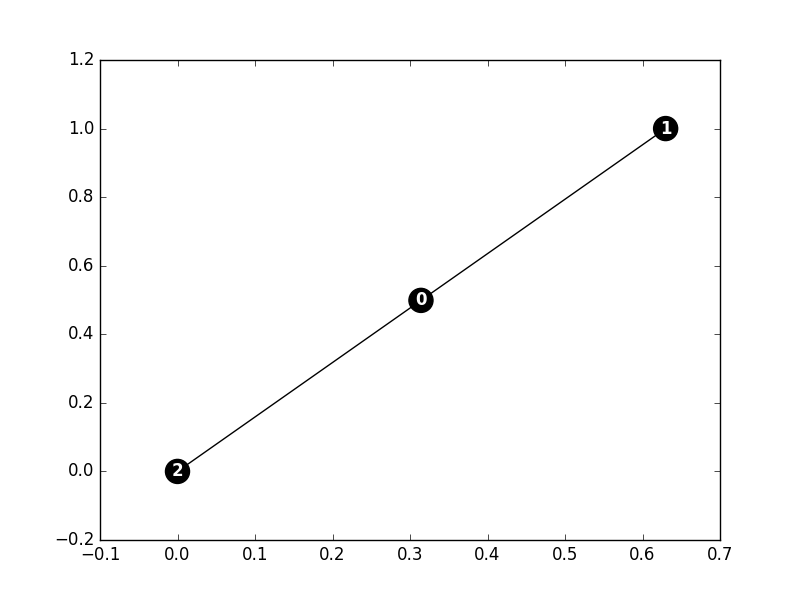
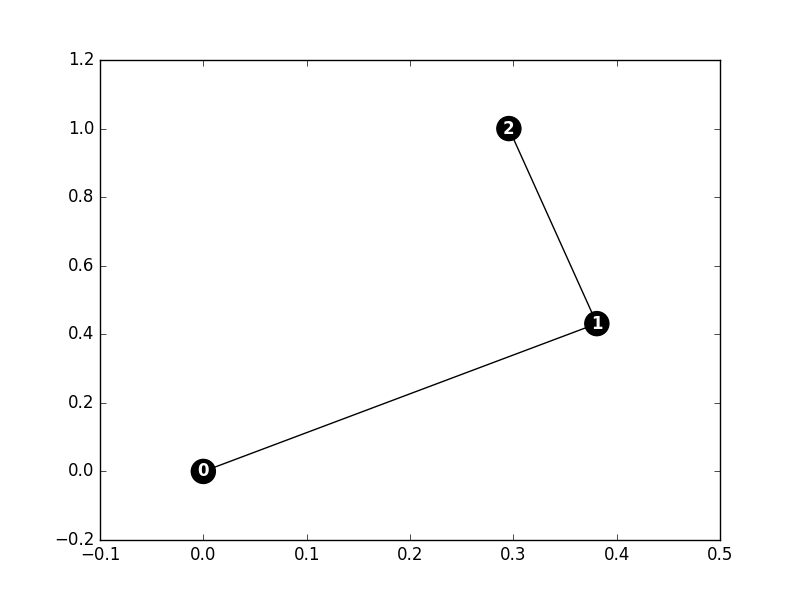
dungeons, mostly

diff --git a/dungeons/dungeon.py b/dungeons/dungeon.py
@@ -5,10 +5,10 @@ import matplotlib.pyplot as plt
 import random
 from dictionaries import dungeon_rooms
 
-dungeon_styles = {'caves': {'connectivity': 1.0, 'rooms': (2, 5), 'class': 'natural', 'colour': 'r'},
-                  'dungeon': {'connectivity': 1.2, 'rooms': (4, 8), 'class': 'built', 'colour': 'b'},
-                  'tunnels': {'connectivity': 1.8, 'rooms': (3, 6), 'class': 'built', 'colour': 'g'},
-                  'tomb': {'connectivity': 0.5, 'rooms': (2, 3), 'class': 'built', 'colour': 'black'}
+dungeon_styles = {'caves': {'connectivity': 1.0, 'rooms': (2, 5), 'class': 'natural', 'colour': 'r', 'secrets': 0},
+                  'dungeon': {'connectivity': 1.2, 'rooms': (4, 8), 'class': 'built', 'colour': 'b', 'secrets': 1},
+                  'tunnels': {'connectivity': 1.8, 'rooms': (3, 6), 'class': 'built', 'colour': 'g', 'secrets': 0},
+                  'tomb': {'connectivity': 0.6, 'rooms': (3, 4), 'class': 'built', 'colour': 'black', 'secrets': 2}
                  }
 
 class Dungeon:
@@ -22,6 +22,7 @@ class Dungeon:
             self.style = 'dungeon'
         if not hasattr(self, 'purpose'):
             self.purpose = random.choice(['tomb', 'stronghold'])
+        self.used_rooms = []
 
     def base_dungeon(self, initial_room=0):
         dungeon = nx.Graph()
@@ -35,10 +36,22 @@ class Dungeon:
         while nx.average_node_connectivity(dungeon) < threshold:
             rooms = random.sample(dungeon.nodes(), 2)
             dungeon.add_edge(rooms[0], rooms[1], style='solid', weight=1)
+        self.add_secrets(dungeon)
         self.label_secret_areas(dungeon)
         self.fix_unjoined_areas(dungeon)
+        self.tag_nodes(dungeon)
         self.assign_rooms(dungeon)
         self.graph = dungeon
+
+    def add_secrets(self, dungeon):
+        if random.randint(1, 6) <= dungeon_styles[self.style]['secrets']:
+            max_nodes = len(dungeon.nodes())
+            colour = dungeon_styles[self.style]['colour']
+            class_ = dungeon_styles[self.style]['class']
+            dungeon.add_node(max_nodes, colour=colour, class_=class_, style=self.style, purpose=self.purpose, tags=[])
+            if random.randint(1, 6) in [1, 2, 3]:
+                dungeon.add_node(max_nodes+1, colour=colour, class_=class_, style=self.style, purpose=self.purpose, tags=[])
+                dungeon.add_edge(max_nodes, max_nodes+1, style='solid', weight=1)
 
     def fix_unjoined_areas(self, dungeon):
         connected_components = [i for i in nx.connected_components(dungeon)]
@@ -56,29 +69,69 @@ class Dungeon:
                     for node in component:
                         dungeon.node[node]['tags'].append('secret')
 
+    def label_edges(self, dungeon):
+        biconnected_component_edges = nx.biconnected_component_edges(dungeon)
+        for edge, edge_data in dungeon.edges(data=True):
+            if edge in biconnected_component_edges:
+                edge_data['important'] = True
+
+
+    def tag_nodes(self, dungeon):
+        nodes = [(node, data) for node, data in dungeon.nodes(data=True) if 'secret' not in data['tags']]
+        central_nodes = [i for i in nx.articulation_points(dungeon)]
+        paths = {a: len(nx.shortest_path(dungeon, 0, a)) for a, node in nodes}
+        max_path = max(paths.values())
+        for a, node in nodes:
+            if a == 0:
+                node['tags'].append('entrance')
+            if a in central_nodes:
+                node['tags'].append('central')
+            if paths[a] == max_path:
+                node['tags'].append('important')
+            if len(dungeon.neighbors(a)) == 1:
+                node['tags'].append('dead-end')
+
     def choose_room(self, node):
         rooms = dungeon_rooms[node['purpose']]
-        suitable_rooms = [room for room in rooms if node['tags'] == [] or any([tag in room.get('tags', []) for tag in node['tags']])]
-        return random.choice(suitable_rooms)
+        if len(node.get('tags', [])) > 0:
+            suitable_rooms = [room for room in rooms if any([tag in room.get('tags', []) for tag in node['tags']])]
+        else:
+            suitable_rooms = [room for room in rooms if room.get('tags', []) == [] or not any([i not in room.get('tags', []) for i in ['secret', 'important']])]
+        final = [room for room in suitable_rooms if room['room_id'] not in self.used_rooms]
+        if len(final) > 0:
+            room = random.choice(final)
+        elif len(suitable_rooms) > 0:
+            room = random.choice(suitable_rooms)
+        else:
+            room = random.choice(rooms)
+        self.used_rooms.append(room['room_id'])
+        return room
 
     def assign_rooms(self, dungeon):
         nodes = dungeon.nodes(data=True)
-        rooms = dungeon_rooms[purpose]
-        used_rooms = []
         for a, node in nodes:
-            room = choose_room(node)
+            room = self.choose_room(node)
             node['room'] = room['description']
-            used_rooms.append(room['room_id'])
+
+    def write_module(self):
+        nodes = self.graph.nodes(data=True)
+        for number, node in nodes:
+            print(number, node['room'])
 
     def save_dungeon_image(self):
+        self.write_module()
         colours = [i[1]['colour'] for i in self.graph.nodes(data=True)]
-        styles = [i[2]['style'] for i in self.graph.edges(data=True)]
+        styles = [c['style'] for a, b, c in self.graph.edges(data=True)]
         edges = {(a, b): 'a' for a, b, c in self.graph.edges(data=True) if c['style'] == 'dashed'}
         pos = nx.spring_layout(self.graph) 
         nx.draw_networkx_edges(self.graph, 
                             pos,
-                            styles=styles,
-                            edge_labels=edges)
+                            style='dashed',
+                            edgelist=[(a, b) for a, b, c in self.graph.edges(data=True) if c['style'] == 'dashed'])
+        nx.draw_networkx_edges(self.graph, 
+                            pos,
+                            style='solid',
+                            edgelist = [(a, b) for a, b, c in self.graph.edges(data=True) if c['style'] == 'solid'])
         nx.draw_networkx_nodes(self.graph, 
                             pos,
                             node_color=colours)

diff --git a/dungeons/dungeon_populator.py b/dungeons/dungeon_populator.py
@@ -1,0 +1,19 @@
+from dictionaries import environment_tags
+from encounters import Encounter
+
+class DungeonPopulator:
+    def __init__(self, dungeon):
+        self.dungeon = dungeon
+        self.style = 'hideout'
+        self.level = 2
+        self.monsters = environment_tags['bandits']['monsters']
+
+    def populate(self):
+        style_dict = {'hideout': self.hideout}
+        method = style_dict[self.style]
+        method()
+
+    def hideout(self):
+        # populates back of dungeon with a tough boss, and entrance with some guards. Odd stuff in between.
+
+    

diff --git a/hex/map.py b/hex/map.py
@@ -33,7 +33,10 @@ class Map:
         current = self.current_hex.coords
         change = self.directions[direction]
         desired = [sum(x) for x in zip(current, change)]
-        self.current_hex = self.get_hex_by_coords(desired)
+        try:
+            self.current_hex = self.get_hex_by_coords(desired)
+        except HexNotFoundError:
+            print("You can't go that way - there's nothing there.")
 
     def neighbouring_encounter(self):
         encounter = {}

diff --git a/dictionaries/dungeon_rooms.py b/dictionaries/dungeon_rooms.py
@@ -1,6 +1,11 @@
 import yaml
 
 def load_dungeon_rooms():
-    with open('dungeons.yaml', 'r') as f:
+    with open('data/dungeon_rooms.yaml', 'r') as f:
         dungeon_rooms = yaml.load(f)
+        i = 0
+        for purpose in dungeon_rooms.keys():
+            for room in dungeon_rooms[purpose]:
+                room['room_id'] = i
+                i += 1
         return dungeon_rooms

diff --git a/test_dungeon.py b/test_dungeon.py
@@ -1,6 +1,6 @@
 from dungeons import Dungeon
 
-dungeon = Dungeon({'style': 'tomb'})
+dungeon = Dungeon({'style': 'tomb', 'purpose': 'tomb'})
 
 dungeon.base_dungeon()
 
